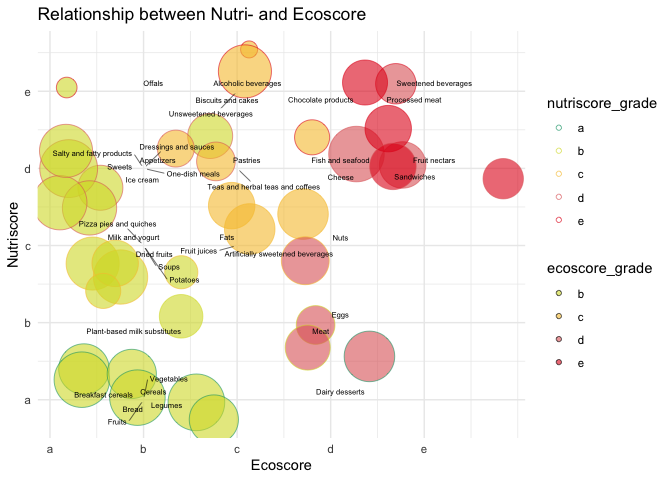
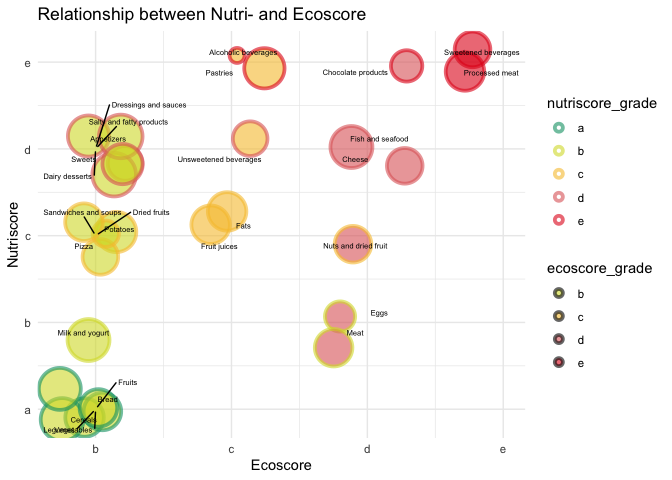
change project solution

diff --git a/Projects/jan-thiele7/sarahloeber.md b/Projects/jan-thiele7/sarahloeber.md
@@ -31,7 +31,7 @@ dataset that Jan provided.
 ### Read in data
 
     # read in dataset
-    food_data <- read.csv("/Users/sarahlober/Data Projects with R and GitHub/Projects/jan-thiele7/data_openfood.csv")
+    food_data <- read.csv("./data_openfood.csv")
     head(food_data)
 
     ##   X                                 product_name countries_en nutriscore_grade
@@ -49,73 +49,13 @@ dataset that Jan provided.
     ## 5        unknown       unknown       unknown
     ## 6        unknown       unknown       unknown
 
-I did not quite grasp the categories in the categorization variables as
-the head does not tell me much about them, so I’m taking a look at them
-first. I then decided to go with the second group category only, as this
-gives more information about the categories than groups 1.
 
-    table(food_data$pnns_groups_1)
+    ### Cleaning the data
 
-    ## 
-    ##     Alcoholic beverages               Beverages    Cereals and potatoes 
-    ##                    1832                    5150                    7696 
-    ##         Composite foods          Fat and sauces          Fish Meat Eggs 
-    ##                    4257                    4356                    6938 
-    ##   Fruits and vegetables Milk and dairy products            Salty snacks 
-    ##                    4984                    8585                    2509 
-    ##           Sugary snacks                 unknown 
-    ##                    9205                  111680
+    I'm getting the data ready for plotting first, then create the actual plot. I'm removing the unknown / not-applicable categories, drop the NAs (if there are any) and change the groups to factor. I am also summarising groups together so I have less groups in the plot later (which makes it easier to read compared to my first version.)
 
-    table(food_data$pnns_groups_2)
 
-    ## 
-    ##              Alcoholic beverages                       Appetizers 
-    ##                             1832                              513 
-    ## Artificially sweetened beverages               Biscuits and cakes 
-    ##                              548                             3124 
-    ##                            Bread                Breakfast cereals 
-    ##                             1782                             1430 
-    ##                          Cereals                           Cheese 
-    ##                             3186                             3753 
-    ##               Chocolate products                   Dairy desserts 
-    ##                             1587                             1200 
-    ##             Dressings and sauces                     Dried fruits 
-    ##                             3235                              439 
-    ##                             Eggs                             Fats 
-    ##                              345                             1121 
-    ##                 Fish and seafood                     Fruit juices 
-    ##                             1852                              996 
-    ##                    Fruit nectars                           Fruits 
-    ##                              154                             1562 
-    ##                        Ice cream                          Legumes 
-    ##                              681                              996 
-    ##                             Meat                  Milk and yogurt 
-    ##                             1310                             2951 
-    ##                             Nuts                           Offals 
-    ##                             1086                               11 
-    ##                   One-dish meals                         Pastries 
-    ##                             3434                              125 
-    ##           Pizza pies and quiches     Plant-based milk substitutes 
-    ##                              632                              635 
-    ##                         Potatoes                   Processed meat 
-    ##                              302                             3420 
-    ##         Salty and fatty products                       Sandwiches 
-    ##                              910                              191 
-    ##                            Soups              Sweetened beverages 
-    ##                               72                             1775 
-    ##                           Sweets Teas and herbal teas and coffees 
-    ##                             4369                              140 
-    ##                          unknown            Unsweetened beverages 
-    ##                           111680                               53 
-    ##                       Vegetables       Waters and flavored waters 
-    ##                             2911                              849
-
-### Cleaning the data
-
-I’m getting the data ready for plotting first, then create the actual
-plot. I’m removing the unknown / not-applicable categories, drop the NAs
-(if there are any) and change the groups to factor.
-
+    ```r
     df <- food_data %>%
       drop_na(pnns_groups_1, nutriscore_grade, ecoscore_grade) %>%
       filter(
@@ -123,8 +63,25 @@ plot. I’m removing the unknown / not-applicable categories, drop the NAs
         nutriscore_grade != "unknown" & 
         ecoscore_grade != "unknown" & 
         nutriscore_grade != "not-applicable" & 
-        ecoscore_grade != "not-applicable") %>%
-      mutate(pnns_groups_2 = factor(pnns_groups_2)
+        ecoscore_grade != "not-applicable"
+      ) %>%
+      mutate(
+        pnns_groups_2 = factor(pnns_groups_2),
+        pnns_groups_2 = case_when(
+          pnns_groups_2 %in% c("Offals", "Meat") ~ "Meat",
+          pnns_groups_2 %in% c("Fruit juices", "Fruit nectars") ~ "Fruit juices",
+          pnns_groups_2 %in% c("Cereals", "Breakfast cereals") ~ "Cereals",
+          pnns_groups_2 %in% c("Teas and herbal teas and coffees", "Unsweetened beverages") ~ "Unsweetened beverages",
+          pnns_groups_2 %in% c("Plant-based milk substitutes", "Milk and yogurt") ~ "Milk and yogurt",
+          pnns_groups_2 %in% c("Ice cream", "Dairy desserts") ~ "Dairy desserts",
+          pnns_groups_2 %in% c("Biscuits and cakes", "Pastries") ~ "Pastries",
+          pnns_groups_2 %in% c("Pizza pies and quiches") ~ "Pizza",
+          pnns_groups_2 %in% c("Artificially sweetened beverages") ~ "Sweetened beverages",
+          pnns_groups_2 %in% c("Dried fruit", "Nuts") ~ "Nuts and dried fruit",
+          pnns_groups_2 %in% c("Sandwiches", "Soups") ~ "Sandwiches and soups",
+          pnns_groups_2 %in% c("One-dish meals", "Salty and fatty products") ~ "Salty and fatty products",
+          TRUE ~ as.character(pnns_groups_2)
+        )
       )
 
 For this next part, I did not really know how to approach it. I took
@@ -134,27 +91,25 @@ unique, therefore cannot be grouped and a matrix takes numeric variables
 only. It looks cool but did not help me much.
 
     # convert data to matrix 
+    #df1 <- df %>%
+    #  select(-c(X, countries_en, product_name, pnns_groups_1))
 
-    df1 <- df %>%
-      select(-c(X, countries_en, product_name, pnns_groups_1))
+    #df1$nutriscore <- as.numeric(as.factor(df1$nutriscore_grade))
+    #df1$ecoscore <- as.numeric(as.factor(df1$ecoscore_grade)) 
+    #df1$pnns_group <- as.numeric(df1$pnns_groups_2) 
 
-    df1$nutriscore <- as.numeric(as.factor(df1$nutriscore_grade))
-    df1$ecoscore <- as.numeric(as.factor(df1$ecoscore_grade)) 
-    df1$pnns_group <- as.numeric(df1$pnns_groups_2) 
+    #rn <- df1[,3]
+    #rn <- make.unique(as.character(rn))
+    #df1 <- df1[,-3]
 
-    rn <- df1[,3]
-    rn <- make.unique(as.character(rn))
-    df1 <- df1[,-3]
+    #df1 <- df1 %>%
+    #  select(-c(nutriscore_grade, ecoscore_grade))
+    #rownames(df1) <- rn
 
-    df1 <- df1 %>%
-      select(-c(nutriscore_grade, ecoscore_grade))
-    rownames(df1) <- rn
+    #matrix <- as.matrix(df1)
+    #heatmap(matrix, scale="column")
 
-    matrix <- as.matrix(df1)
-    heatmap(matrix, scale="column")
-
-![](sarahloeber_files/figure-markdown_strict/visualize-1.png) So I had
-ChatGPT do it in the end…
+So I had ChatGPT do it in the end…
 
     nutriscore_levels <- c("a" = 1, "b" = 2, "c" = 3, "d" = 4, "e" = 5)
     ecoscore_levels <- c("a" = 1, "b" = 2, "c" = 3, "d" = 4, "e" = 5)
@@ -182,17 +137,18 @@ ChatGPT do it in the end…
       slice_max(order_by = count, n = 1) %>%
       ungroup()
 
-And this is the plot that came out of it. I’m not super happy with it,
-but I’ll send this out for feedback so I have time to revise it later :)
+And this is the plot that came out of it. The labels are a bit tricky
+since they overlap and that does not look great in the plot. I changed
+the size of the circle around the circle so the colours are clearer.
 
     nutriscore_colors <- c("a" = "#009e73", "b" = "#d6db32", "c" = "#f7c239", "d" = "#e06666", "e" = "#e21a1a")
     ecoscore_colors <- c("a" = "#009e73", "b" = "#d6db32", "c" = "#f7c239", "d" = "#e06666", "e" = "#e21a1a")
 
     # Create the plot
-    ggplot(plot_data, aes(x = ecoscore_value, y = nutriscore_value, size = size)) +
-      geom_point(aes(color = nutriscore_grade, fill = ecoscore_grade), alpha = 0.6, shape = 21, 
-                 position = position_jitter(width = 0.9, height = 0.6)) +
-      scale_size_area(max_size = 20, guide = 'none') +  # Remove the count legend
+    ggplot(plot_data, aes(x = ecoscore_value, y = nutriscore_value, size = size, label = pnns_groups_2)) +
+      geom_point(aes(color = nutriscore_grade, fill = ecoscore_grade), alpha = 0.6, shape = 21, stroke = 2, 
+                 position = position_jitter(width = 0.3, height = 0.3)) +
+      scale_size_area(max_size = 14, guide = 'none') +
       scale_color_manual(values = nutriscore_colors) +
       scale_fill_manual(values = ecoscore_colors) +
       scale_x_continuous(breaks = 1:5, labels = names(ecoscore_levels)) +
@@ -203,6 +159,6 @@ but I’ll send this out for feedback so I have time to revise it later :)
         x = "Ecoscore",
         y = "Nutriscore"
       ) +
-      geom_text_repel(aes(label = pnns_groups_2), size = 2, max.overlaps = Inf, box.padding = 0.2, point.padding = 0.2, force = 1, segment.size = 0.2)
+      geom_text_repel(size = 2, box.padding = 0.3, point.padding = 0.2)
 
 ![](sarahloeber_files/figure-markdown_strict/plot%20nutriscore-1.png)
